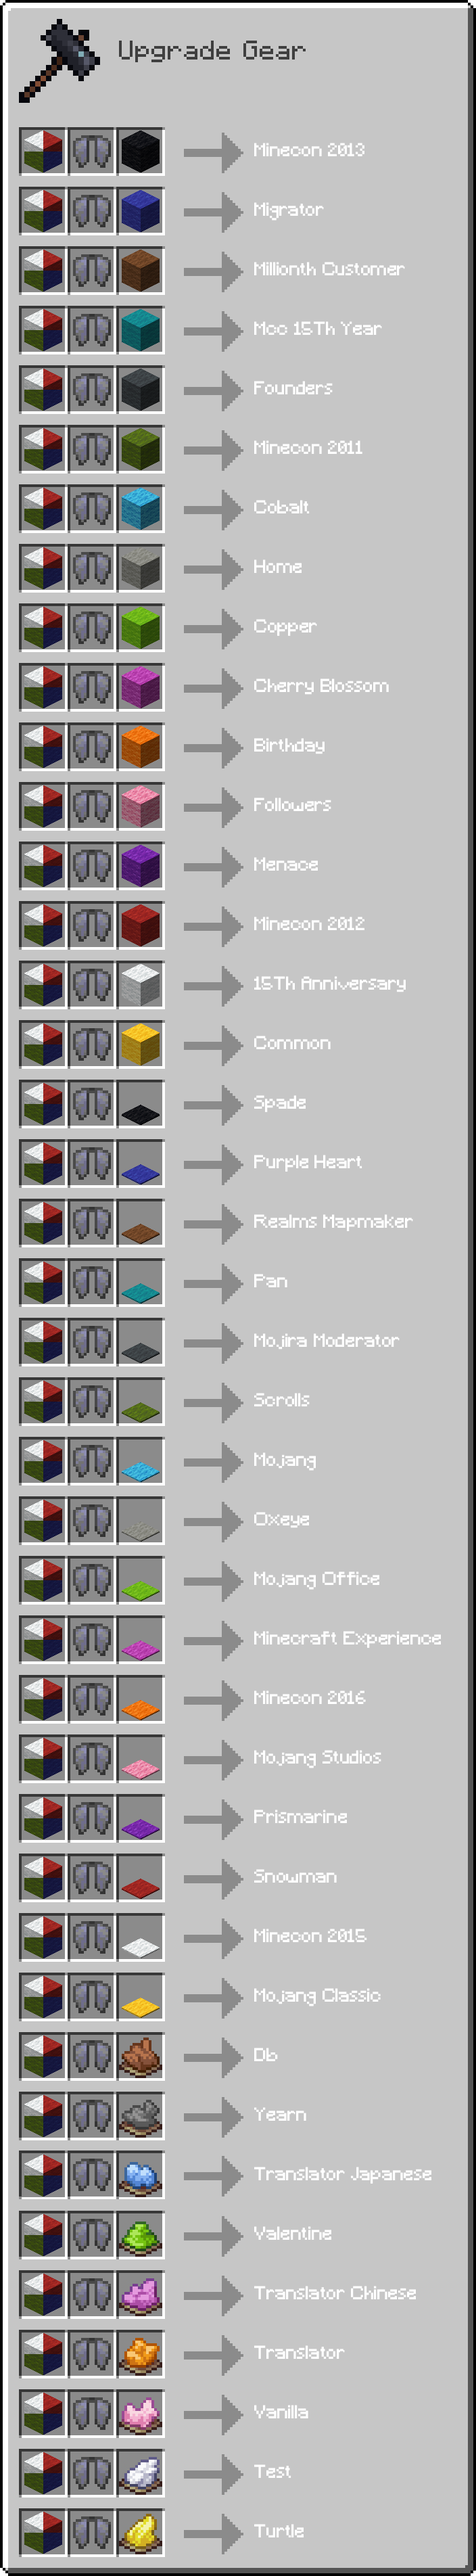
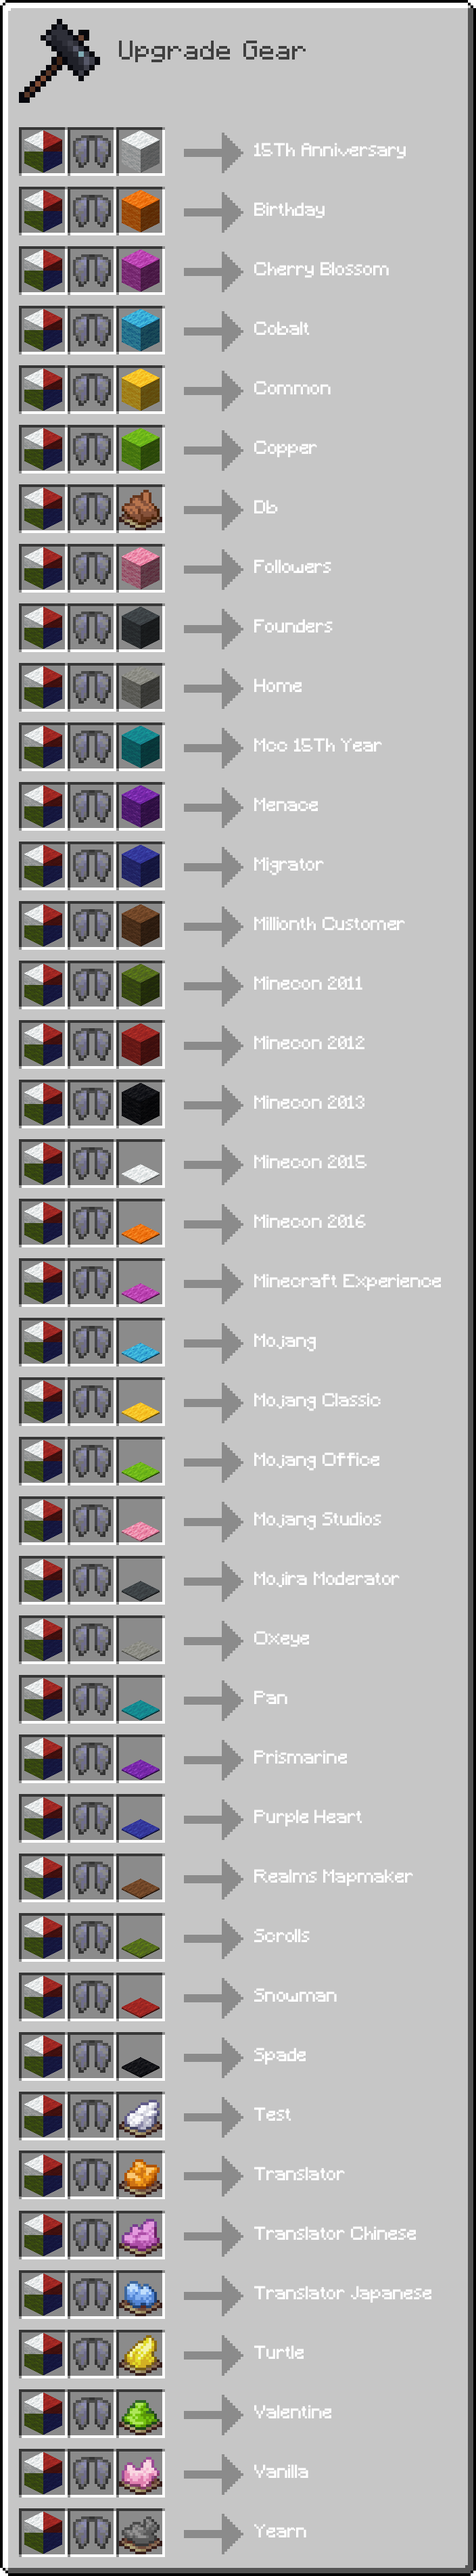
Alphabetizes the recipe img

diff --git a/img/main.py b/img/main.py
@@ -24,6 +24,9 @@ for recipe_file in recipe_files:
     with open(f"data/capewings/recipe/{recipe_file}", "r") as file:
         recipes.append((recipe_file.replace(".json", ""), json.loads("".join(file.readlines()))))
     
+def get_name(item):
+    return item[0]
+
 def get_addition(item):
     if "carpet" in item[1]["addition"]:
         return "2carpet_" + item[1]["addition"][len("minecraft:"):-len("_carpet")]
@@ -33,7 +36,7 @@ def get_addition(item):
         return "3dye_" + item[1]["addition"][len("minecraft:"):-len("_dye")]
     return item[1]["addition"]
 
-recipes.sort(key=get_addition)
+recipes.sort(key=get_name)
 
 draw = ImageDraw.Draw(template)
 
